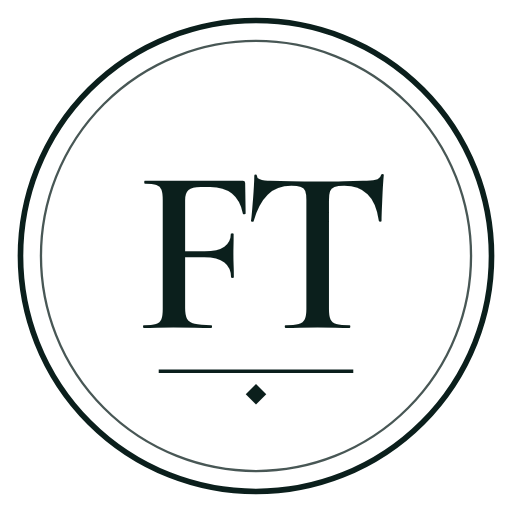
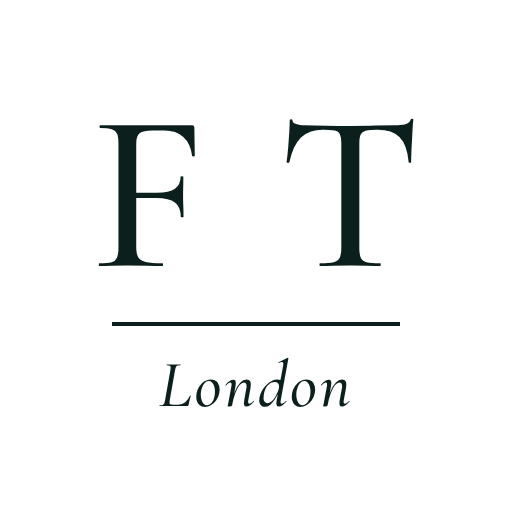
FT: marca escolhida — assinatura de grife (F T espaçado, fio, Travel & Experiences, London)
Claude-Session: https://claude.ai/code/session_01WF34NWQDaXArar5L4FBBGZ

diff --git a/ft/ft-site.js b/ft/ft-site.js
@@ -189,7 +189,7 @@ function ftTopo(transparente) {
   <header class="ft-top ${transparente ? '' : 'solido'}" id="ftTop">
     <div class="ft-wrap ft-top-in">
       <a class="ft-adm" href="#/adm" title="${L4('Team panel', 'Painel da equipe', 'Area riservata')}" aria-label="${L4('Team panel', 'Painel da equipe', 'Area riservata')}">${FT_IC.cadeado}<span>${L4('Panel', 'Painel', 'Area')}</span></a>
-      <a class="ft-marca" href="#/" aria-label="FT Travel & Experiences — home"><img src="arte/ft-horizontal.png" alt="FT Travel & Experiences" width="300" height="63"></a>
+      <a class="ft-marca" href="#/" aria-label="FT Travel & Experiences — home"><img src="arte/ft-horizontal.png" alt="FT Travel & Experiences, London" width="260" height="40"></a>
       <nav class="ft-menu" aria-label="Main menu">${MENU.map(([id, n]) => `<a href="#/" data-ir="${id}">${n}</a>`).join('')}</nav>
       ${idiomas}
       <a class="ft-btn ft-btn-ouro ft-cta-top" href="#/roteiro">${L4('Plan my trip', 'Planejar a viagem', 'Pianifica il viaggio')}</a>
@@ -324,7 +324,7 @@ function viewHub() {
   </section>
 
   <section class="ft-sol" aria-label="FT">
-    <div class="ft-sol-faixa"><div>${Array(2).fill([L4('Your driver', 'O seu motorista', 'Il tuo autista'), L4('Your language', 'A sua língua', 'La tua lingua'), L4('Your pace', 'O seu ritmo', 'Il tuo ritmo'), L4('Your Britain', 'A sua Grã-Bretanha', 'La tua Gran Bretagna')].map(s => `<span>${s}</span><img src="arte/ft-mark-escura.png" alt="">`).join('')).join('')}</div></div>
+    <div class="ft-sol-faixa"><div>${Array(2).fill([L4('Your driver', 'O seu motorista', 'Il tuo autista'), L4('Your language', 'A sua língua', 'La tua lingua'), L4('Your pace', 'O seu ritmo', 'Il tuo ritmo'), L4('Your Britain', 'A sua Grã-Bretanha', 'La tua Gran Bretagna')].map(s => `<span>${s}</span><i class="ft-sol-sep">◆</i>`).join('')).join('')}</div></div>
   </section>
 
   <section class="ft-frota" id="ft-frota" aria-labelledby="ftFrota">
@@ -369,7 +369,7 @@ function viewHub() {
   <section class="ft-final" aria-labelledby="ftFinal">
     <img src="arte/f/highlands-sunset.jpg" alt="" loading="lazy">
     <div class="ft-wrap ft-rv">
-      <img class="ft-final-mark" src="arte/ft-mark.png" alt="" width="84" height="84">
+      <img class="ft-final-mark" src="arte/ft-mark.png" alt="" width="120" height="120">
       <h2 id="ftFinal">${L4('Where does <em>your road</em> begin?', 'Onde começa <em>a sua estrada?</em>', 'Dove inizia <em>la tua strada?</em>')}</h2>
       <p>${L4('Tell us when you arrive and what you would love to see. We answer the same day.', 'Conte quando chega e o que gostaria de ver. A gente responde no mesmo dia.', 'Dicci quando arrivi e cosa ti piacerebbe vedere. Rispondiamo in giornata.')}</p>
       <div class="ft-acoes"><a class="ft-btn ft-btn-ouro" href="#/roteiro">${L4('Plan my trip', 'Planejar a viagem', 'Pianifica il viaggio')}</a>
@@ -404,7 +404,7 @@ function ftRodape(email, insta) {
   insta = insta || (st.insta || GUIA_CFG.insta || '').replace(/^@/, '');
   return `<footer class="ft-rodape">
     <div class="ft-wrap ft-rodape-in">
-      <div><img src="arte/ft-logo.png" alt="FT Travel & Experiences" width="220" height="160" loading="lazy">
+      <div><img src="arte/ft-logo.png" alt="FT Travel & Experiences, London" width="220" height="119" loading="lazy">
         <p>${L4('Chauffeur, concierge and private journeys across England, Scotland and Europe.', 'Chauffeur, concierge e viagens privativas pela Inglaterra, Escócia e Europa.', 'Autista, concierge e viaggi privati in Inghilterra, Scozia ed Europa.')}</p></div>
       <div><h3>${L4('Journeys', 'Viagens', 'Viaggi')}</h3>${FT_JOURNEYS.map(j => `<a href="#/journey/${j.id}">${esc(ftTxt(j.nome))}</a>`).join('')}</div>
       <div><h3>FT</h3><a href="#/tours">${L4('All experiences', 'Todas as experiências', 'Tutte le esperienze')}</a><a href="#/roteiro">${L4('Tailor-made trip', 'Viagem sob medida', 'Viaggio su misura')}</a><a href="#/about">${L4('About Roberto', 'Sobre o Roberto', 'Chi è Roberto')}</a><a href="#/avaliacoes">${L4('Reviews', 'Avaliações', 'Recensioni')}</a></div>
@@ -413,7 +413,7 @@ function ftRodape(email, insta) {
         ${email ? `<a href="mailto:${esc(email)}">${esc(email)}</a>` : ''}
         ${insta ? `<a href="https://instagram.com/${esc(insta)}" target="_blank" rel="noopener">@${esc(insta)}</a>` : ''}
         <span>London, United Kingdom</span></div>
-      <p class="ft-gigante" aria-hidden="true">FT <em>Travel &amp; Experiences</em></p>
+      <p class="ft-gigante" aria-hidden="true"><b>F T</b> <em>Travel &amp; Experiences</em></p>
       <div class="ft-base"><span>© ${new Date().getFullYear()} FT Travel & Experiences · Freddy Turismo Ltd</span>
         <span><a href="privacidade.html">${L4('Privacy', 'Privacidade', 'Privacy')}</a> · <span class="ft-creditos">${L4('Photos: Unsplash and Wikimedia Commons contributors (CC BY / CC BY-SA)', 'Fotos: Unsplash e colaboradores do Wikimedia Commons (CC BY / CC BY-SA)', 'Foto: Unsplash e Wikimedia Commons (CC BY / CC BY-SA)')}</span>
         · <a class="ft-painel" href="#/adm">${FT_IC.cadeado} ${L4('Team panel', 'Painel da equipe', 'Area riservata')}</a></span></div>

diff --git a/ft/index.html b/ft/index.html
@@ -10,7 +10,7 @@
 <meta property="og:type" content="website">
 <meta property="og:title" content="FT Travel & Experiences — Britain, beautifully driven.">
 <meta property="og:description" content="Chauffeur, concierge and private journeys across England, Scotland and Europe, in executive Mercedes.">
-<meta property="og:image" content="https://guia.eugeniofim.com/ft/og.jpg?v=2">
+<meta property="og:image" content="https://guia.eugeniofim.com/ft/og.jpg?v=3">
 <meta property="og:image:width" content="1200"><meta property="og:image:height" content="630">
 <meta property="og:url" content="https://guia.eugeniofim.com/ft/">
 <meta property="og:site_name" content="FT Travel & Experiences">
@@ -694,6 +694,8 @@ button:focus-visible,a:focus-visible,[tabindex]:focus-visible{
 .sp-logo{display:block;width:min(232px,58vw);height:auto;margin:26px auto 0;
   animation:spUp 950ms var(--ease) both;animation-delay:2150ms}
 .sp-word,.sp-role,.sp-region,.sp-lang{color:#fff;animation:spUp 950ms var(--ease) both}
+/* FT: a assinatura (logo em pé) já traz o nome — a palavra solta sai */
+.sp-word{display:none!important}
 .sp-word{margin-top:26px;font-family:"Cormorant Garamond",var(--f-display);font-weight:600;
   font-size:clamp(36px,9vw,64px);line-height:1.03;letter-spacing:.01em;animation-delay:2150ms}
 .sp-role{margin-top:16px;font-family:var(--f-display);font-weight:600;color:#E3CB97!important;text-transform:uppercase;
@@ -1234,7 +1236,7 @@ body.sem-anima #app>*,body.sem-anima #app .stage,body.sem-anima #app .wrap,body.
 <div id="splash" class="splash">
   <div class="sp-stage">
     <div class="sp-mark">
-      <img src="arte/ft-mark.png" width="170" height="170" alt="" aria-hidden="true" style="display:block;margin:0 auto">
+      <img src="arte/ft-logo.png" width="330" height="178" alt="FT Travel &amp; Experiences, London" style="display:block;margin:0 auto;max-width:78vw;height:auto">
     </div>
     <!-- o nome do negocio e a credencial vem do config.js (app.js preenche) -->
     <div class="sp-word" id="spWord"></div>

diff --git a/ft/sw.js b/ft/sw.js
@@ -4,7 +4,7 @@
    Para publicar uma atualização: subir os arquivos novos e trocar a VERSION. */
 'use strict';
 
-const VERSION = 'ft-v0.2.1';
+const VERSION = 'ft-v0.3.0';
 const CORE = [
   './', './index.html', './config.js', './app.js', './fx.js', './pix.js', './qr.js', './qrcode.js', './traduz.js', './store.js', './auth.js', './logo.js', './cloud.js', './nuvem-itens.js', './i18n.js', './es.js', './conteudo.js', './operacao.js', './operacao-telas.js', './precos.js', './assistente.js', './assistente-ingrid.js', './guia-link.js', './pdf-yalla.js', './publico-yalla.js', './kit-yalla.js', './orcamento-yalla.js', './roteiro-yalla.js', './assistente-yalla.js', './ft-site.js', './ft-site.css', './tokens.css', './operacao.css', './marca.css', './manifest.webmanifest', './og.jpg',
   './arte/ft-mark.png', './arte/ft-mark-escura.png', './arte/ft-logo.png', './arte/ft-logo-escura.png', './arte/ft-horizontal.png', './arte/ft-horizontal-escura.png',

diff --git a/ft/ft-site.css b/ft/ft-site.css
@@ -467,3 +467,17 @@
   .ft-hero h1 em{color:#F6E2B4}
   .ft-olho{letter-spacing:.24em}
 }
+/* 17/11/2026: a marca escolhida — "Assinatura de grife" (F T espaçado, fio, London) */
+.ft-marca img{height:40px}
+@media (max-width:1080px){.ft-marca img{height:34px}}
+@media (max-width:420px){.ft-marca img{height:28px}}
+.ft-final-mark{width:120px;height:120px;margin-bottom:10px}
+.ft-sol-sep{font-style:normal;font-size:16px;opacity:.55}
+.ft-rodape .ft-rodape-in>div:first-child img{width:200px;height:auto}
+.ft-gigante b{font:500 1em var(--ft-serif);letter-spacing:.28em;margin-right:.05em}
+.ft-marca img{height:44px}
+.ft-menu{gap:22px}.ft-menu a{white-space:nowrap}
+@media (max-width:1240px){.ft-menu{gap:16px}.ft-menu a{font-size:12.5px}}
+.ft-rodape .ft-gigante{font-size:clamp(34px,5.6vw,88px);white-space:nowrap}
+.ft-gigante b{letter-spacing:.2em;margin-right:.1em}
+@media (max-width:700px){.ft-rodape .ft-gigante{white-space:normal}}
